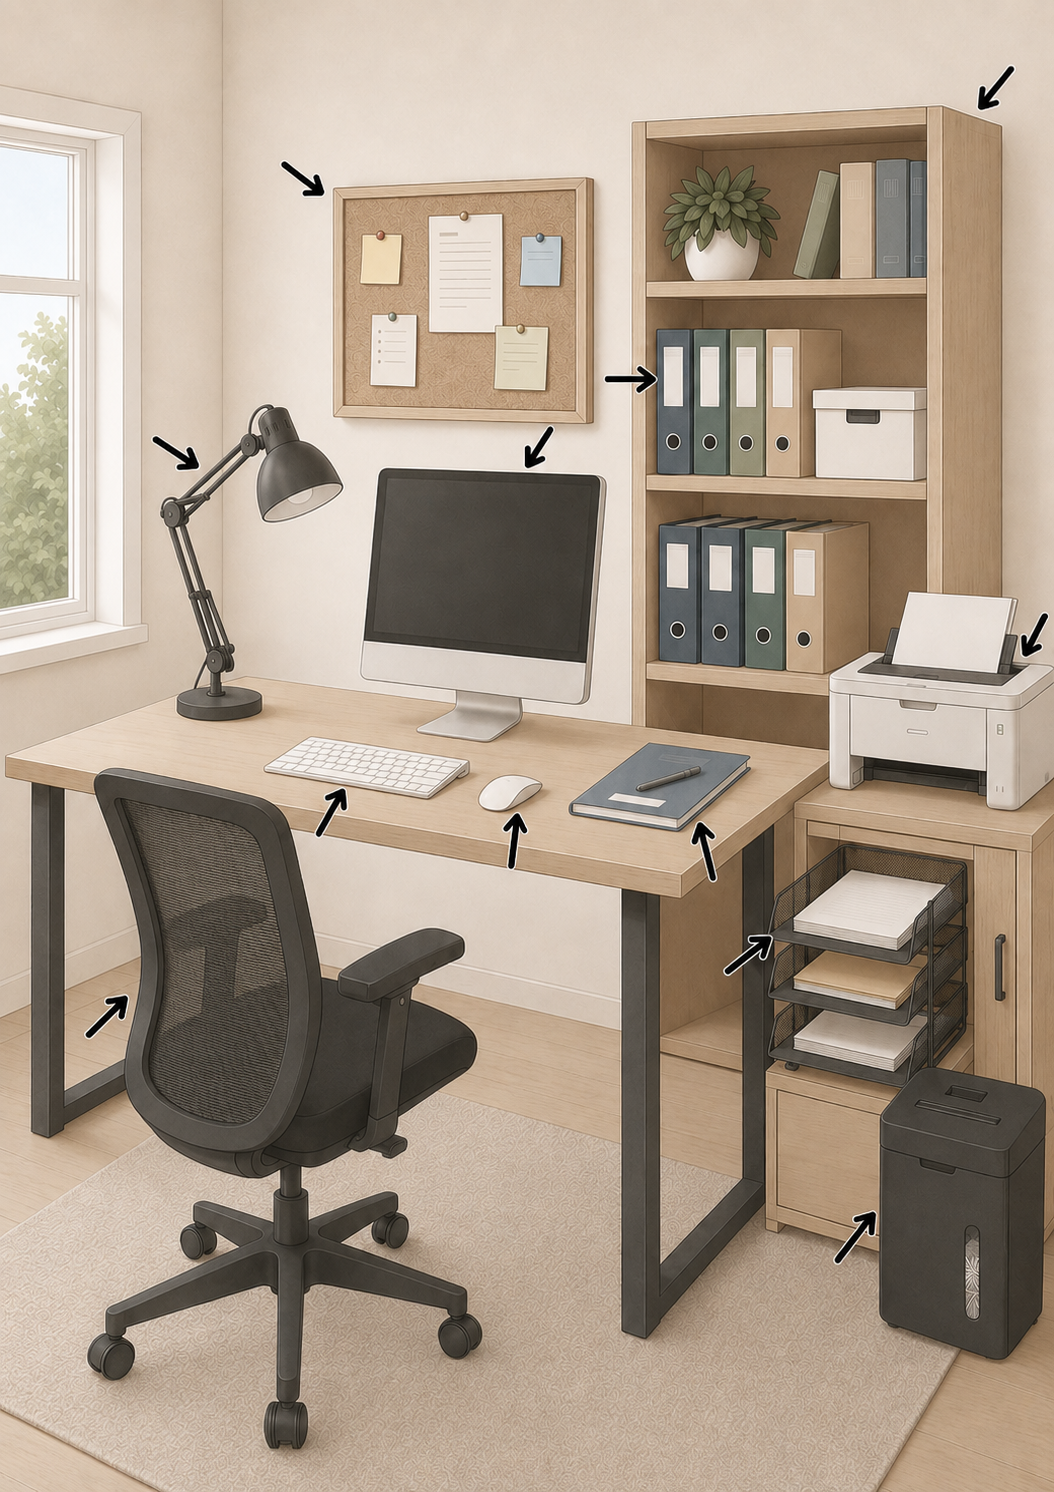
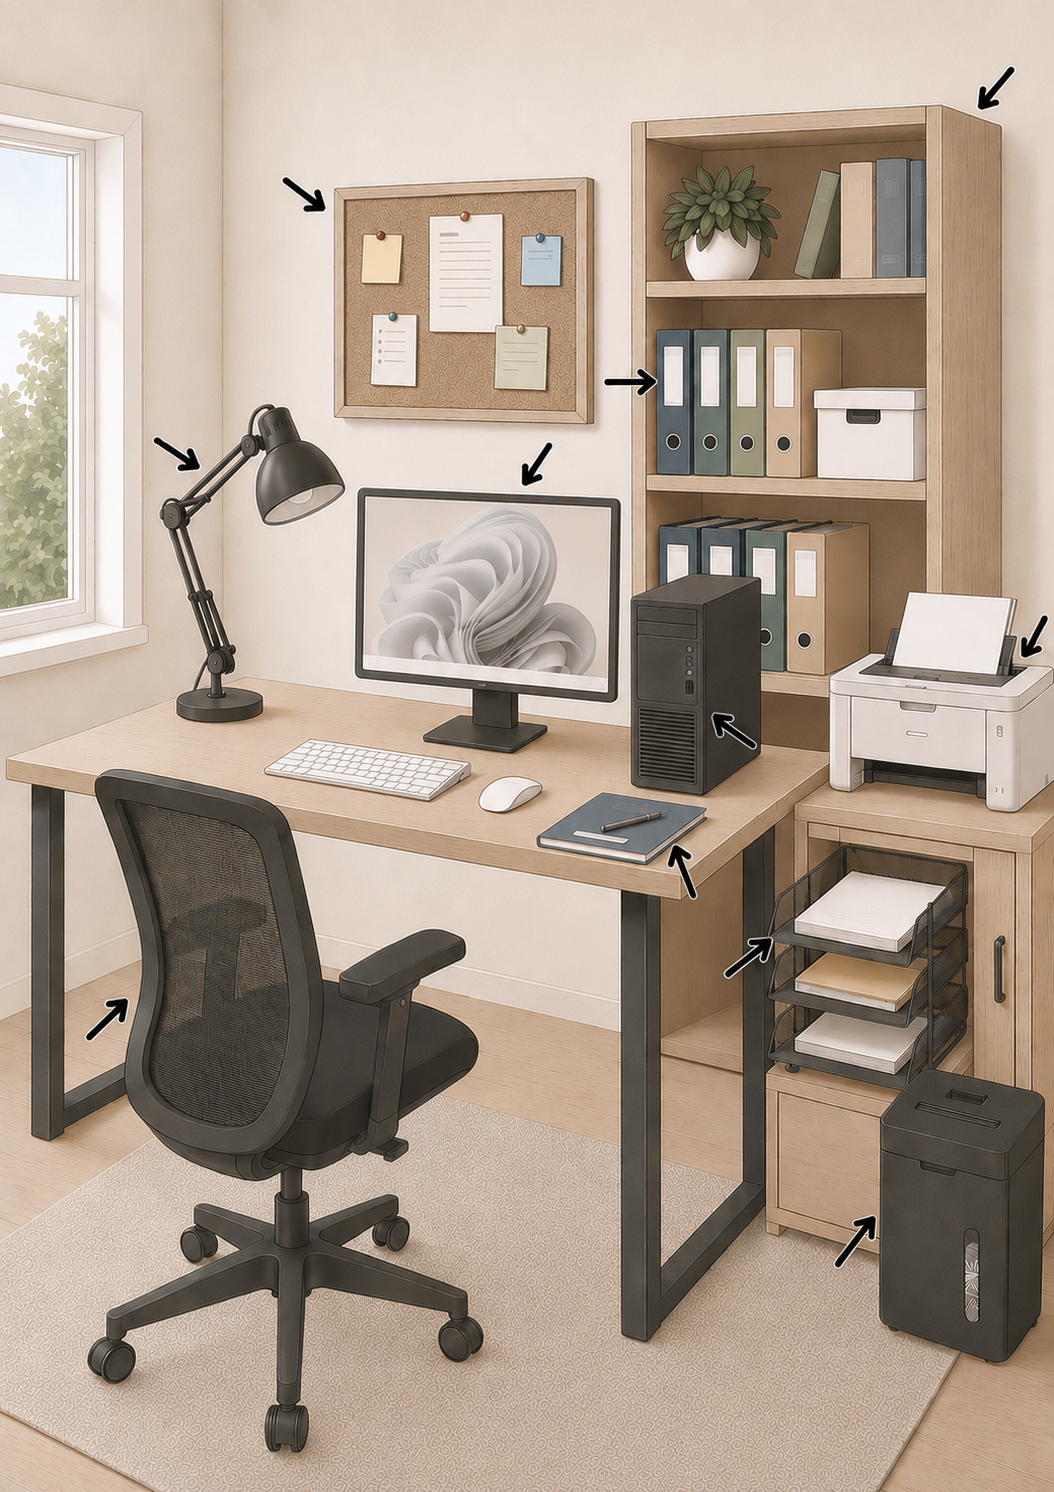
Aktualisiere despacho1 Bild und Hotspots

diff --git a/bilder-daten.js b/bilder-daten.js
@@ -1604,12 +1604,13 @@ window.APP_FOLDERS = {
           { wort: { es: "la lámpara de escritorio", de: "die Schreibtischlampe", en: "the desk lamp", ru: "настольная лампа" }, clickX: 23.0, clickY: 36.0, labelX: 31.5, labelY: 32.5, areaW: 16, areaH: 22 },
           { wort: { es: "el tablón de anuncios", de: "die Pinnwand", en: "the noticeboard", ru: "доска объявлений" }, clickX: 43.5, clickY: 19.5, labelX: 52.0, labelY: 15.0, areaW: 26, areaH: 20 },
           { wort: { es: "el ordenador", de: "der Computer", en: "the computer", ru: "компьютер" }, clickX: 44.0, clickY: 37.0, labelX: 52.0, labelY: 32.0, areaW: 22, areaH: 16 },
+          { wort: { es: "el ordenador", de: "der Computer", en: "the computer", ru: "компьютер" }, clickX: 65.5, clickY: 57.5, labelX: 73.5, labelY: 53.5, areaW: 13, areaH: 21 },
           { wort: { es: "la estantería", de: "das Regal", en: "the shelving unit / the bookcase", ru: "стеллаж / книжный шкаф" }, clickX: 78.0, clickY: 11.5, labelX: 70.0, labelY: 10.5, areaW: 38, areaH: 15 },
           { wort: { es: "el archivador", de: "der Aktenordner", en: "the lever arch file", ru: "папка-регистратор" }, clickX: 70.0, clickY: 26.5, labelX: 79.0, labelY: 22.5, areaW: 20, areaH: 14 },
           { wort: { es: "la impresora", de: "der Drucker", en: "the printer", ru: "принтер" }, clickX: 89.0, clickY: 46.0, labelX: 80.0, labelY: 42.0, areaW: 24, areaH: 14 },
           { wort: { es: "el teclado", de: "die Tastatur", en: "the keyboard", ru: "клавиатура" }, clickX: 36.0, clickY: 51.5, labelX: 43.0, labelY: 48.5, areaW: 18, areaH: 6 },
           { wort: { es: "el ratón", de: "die Maus", en: "the mouse", ru: "мышь" }, clickX: 49.5, clickY: 52.0, labelX: 57.0, labelY: 49.5, areaW: 8, areaH: 6 },
-          { wort: { es: "la carpeta", de: "die Mappe", en: "the folder", ru: "папка" }, clickX: 62.0, clickY: 53.0, labelX: 70.0, labelY: 49.5, areaW: 15, areaH: 9 },
+          { wort: { es: "la carpeta", de: "die Mappe", en: "the folder", ru: "папка" }, clickX: 58.0, clickY: 62.0, labelX: 66.5, labelY: 58.0, areaW: 18, areaH: 10 },
           { wort: { es: "la silla de oficina", de: "der Bürostuhl", en: "the office chair", ru: "офисное кресло" }, clickX: 24.0, clickY: 74.0, labelX: 34.0, labelY: 67.0, areaW: 32, areaH: 38 },
           { wort: { es: "la bandeja de documentos", de: "die Papierablage", en: "the paper tray", ru: "лоток для документов" }, clickX: 80.0, clickY: 63.0, labelX: 86.5, labelY: 59.0, areaW: 18, areaH: 16 },
           { wort: { es: "el destructor de documentos", de: "der Aktenvernichter", en: "the paper shredder", ru: "уничтожитель документов" }, clickX: 91.0, clickY: 82.0, labelX: 82.0, labelY: 78.5, areaW: 14, areaH: 17 }
